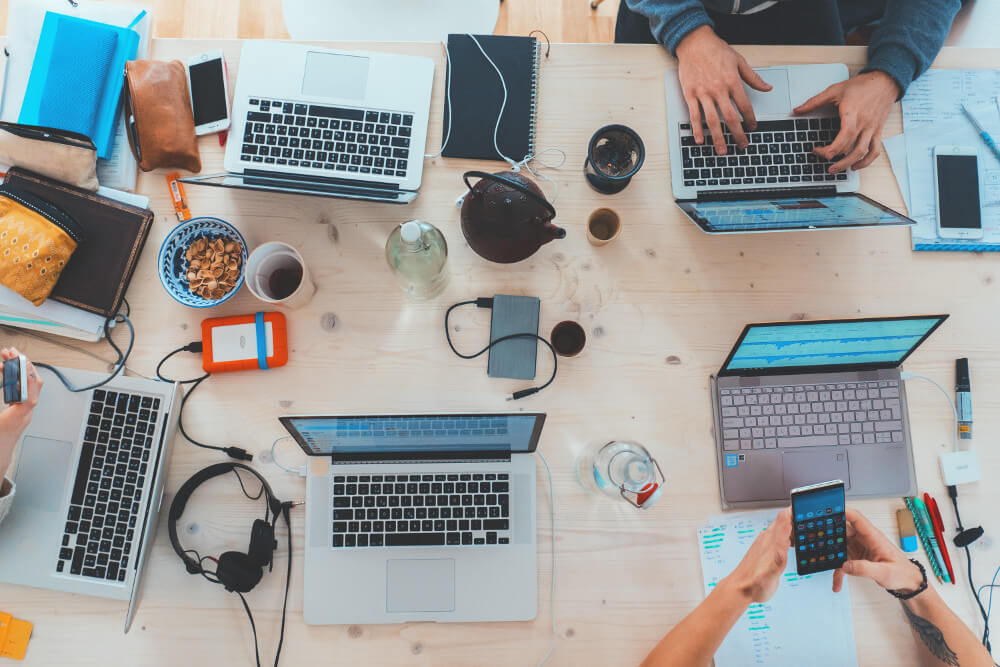
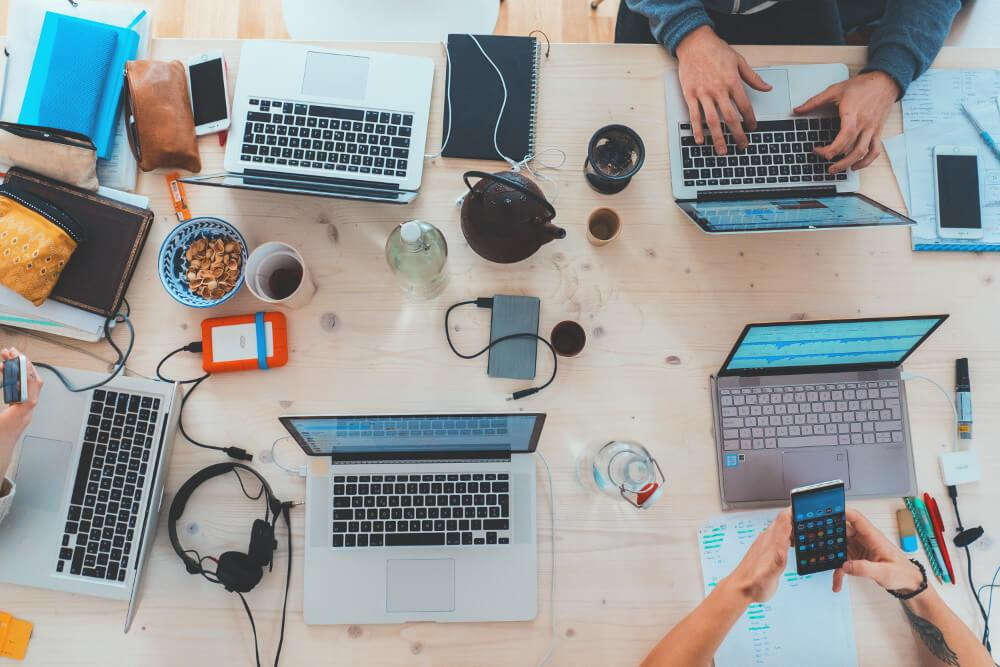
Add optimized image.

diff --git a/public/index.html b/public/index.html
@@ -1,4 +1,4 @@
-<!DOCTYPE html><html><head><meta charset="utf-8"><meta http-equiv="X-UA-Compatible" content="IE=edge,chrome=1"><meta name="viewport" content="width=device-width"><link rel="apple-touch-icon" sizes="180x180" href="/apple-touch-icon.png"><link rel="icon" type="image/png" href="/favicon-32x32.png" sizes="32x32"><link rel="icon" type="image/png" href="/favicon-16x16.png" sizes="16x16"><link rel="manifest" href="/manifest.json"><link rel="mask-icon" href="/safari-pinned-tab.svg" color="#5bbad5"><meta name="theme-color" content="#ffffff"><meta name="og:url" content="http://eatingforproductivity.com"><meta name="og:title" content="Weekly Meal Plans Designed for High Energy Days - EatingForProductivity.com"><meta name="og:description" content="We're creating a service that sends you weekly meal plans designed for sustained energy throughout your day.  Turn sluggish afternoons into productive hours with laser focus!"><meta name="og:image" content="http://eatingforproductivity.com/assets/images/guy-working-on-computer-with-hand-on-head.jpg?v=180720"><meta name="og:type" content="article"><link rel="canonical" href="http://eatingforproductivity.com"><title>Weekly Meal Plans Designed for High Energy Days - EatingForProductivity.com</title><meta name="description" content="We're creating a service that sends you weekly meal plans designed for sustained energy throughout your day.  Turn sluggish afternoons into productive hours with laser focus!"><link href="https://fonts.googleapis.com/css?family=Lato:400,700,900|Roboto:300,400,700|Handlee" rel="stylesheet"><link rel="stylesheet" href="/assets/css/application.css?v=180720"><script src="https://www.google.com/recaptcha/api.js"></script><script>!function(f,b,e,v,n,t,s){if(f.fbq)return;n=f.fbq=function(){n.callMethod?
+<!DOCTYPE html><html><head><meta charset="utf-8"><meta http-equiv="X-UA-Compatible" content="IE=edge,chrome=1"><meta name="viewport" content="width=device-width"><link rel="apple-touch-icon" sizes="180x180" href="/apple-touch-icon.png"><link rel="icon" type="image/png" href="/favicon-32x32.png" sizes="32x32"><link rel="icon" type="image/png" href="/favicon-16x16.png" sizes="16x16"><link rel="manifest" href="/manifest.json"><link rel="mask-icon" href="/safari-pinned-tab.svg" color="#5bbad5"><meta name="theme-color" content="#ffffff"><meta name="og:url" content="http://eatingforproductivity.com"><meta name="og:title" content="Weekly Meal Plans Designed for High Energy Days - EatingForProductivity.com"><meta name="og:description" content="We're creating a service that sends you weekly meal plans designed for sustained energy throughout your day.  Turn sluggish afternoons into productive hours with laser focus!"><meta name="og:image" content="http://eatingforproductivity.com/assets/images/guy-working-on-computer-with-hand-on-head.jpg?v=180721"><meta name="og:type" content="article"><link rel="canonical" href="http://eatingforproductivity.com"><title>Weekly Meal Plans Designed for High Energy Days - EatingForProductivity.com</title><meta name="description" content="We're creating a service that sends you weekly meal plans designed for sustained energy throughout your day.  Turn sluggish afternoons into productive hours with laser focus!"><link href="https://fonts.googleapis.com/css?family=Lato:400,700,900|Roboto:300,400,700|Handlee" rel="stylesheet"><link rel="stylesheet" href="/assets/css/application.css?v=180720"><script src="https://www.google.com/recaptcha/api.js"></script><script>!function(f,b,e,v,n,t,s){if(f.fbq)return;n=f.fbq=function(){n.callMethod?
 n.callMethod.apply(n,arguments):n.queue.push(arguments)};if(!f._fbq)f._fbq=n;
 n.push=n;n.loaded=!0;n.version='2.0';n.queue=[];t=b.createElement(e);t.async=!0;
 t.src=v;s=b.getElementsByTagName(e)[0];s.parentNode.insertBefore(t,s)}(window,
@@ -9,6 +9,6 @@ fbq('track', 'PageView');
 function gtag(){dataLayer.push(arguments);}
 gtag('js', new Date());
 
-gtag('config', 'UA-106177020-2');</script></head><body class="no-header" id="landing-page"><main><div class="section red micro"><div class="small-container"><div class="full"><div class="header"><img class="circle outline inline-block" src="/assets/images/logo.png?v=180720" alt="Eating for Productivity. High energy meal plans sent to you weekly without you having to think about."><h2 class="text-center bold inline-block">Eating for Productivity</h2></div></div></div></div><div class="section small"><div class="small-container"><div class="full"><h1 class="text-center">Weekly Meal Plans for Professionals Who Want High Energy Days</h1><p class="italic">Do you ever get a rush of sleepiness just after eating lunch around 3-4pm that makes it close to impossible to stay awake even while you sit at your desk working?</p><img src="/assets/images/guy-working-on-computer-with-hand-on-head.jpg?v=180720"><p>For me, this was most days. Even after fixing my sleep schedule to get a solid 8 hours a night at consistent sleep and wake times, I still found myself getting tired and losing focus after lunch.</p><p>After doing some research, I noticed what you eat matters as much as when you eat it.</p><h3>I Needed to Find an Expert</h3><p>I can't claim to be an expert on nutrition so I went looking for one.  I found a nutritionist who creates weekly meal plans focused around holistic eating and I asked her if she could help me.</p><p>She sent me my plan for a weeks worth of meals and snacks, along with a grocery list.  Not only was everything delicious, but after a few days, I no longer had trouble staying focused in the afternoon.</p><p class="bold">This was a game changer!</p><img src="/assets/images/people-working-at-a-single-desk.jpg?v=180720"><p>Now I have high energy throughout my day, eat a well balanced diet that is delicious, and have no trouble maintaining a healthy weight.</p><p><span class="bold">Best of all, I don't have to think about my food for the week at all!&nbsp;</span>My meals and snacks are set for the week and I receive a simple list for grocery shopping.</p><h3>Eat for Productivity Without Thinking About It!</h3><p>I am continuing my meal plan and am working with her to create a reasonably priced service that sends you weekly meal plans designed for sustained energy throughout your day.  We're thinking just a few dollars a month.</p><p>You may think these meal plans won't be customized enough for your lifestyle and if you have dietary restrictions then you would be right!</p><p>But as far personalization on the meal plans I received, there is nothing particularly unique to my life besides the desire to have high energy days with laser focus.&nbsp;<span class="bold">These meal plans will boost your energy assuming you don't have dietary restrictions.</span></p><img src="/assets/images/punch-today-in-the-face.jpg?v=180720"><h3>Punch Today In the Face.</h3><p>If you catch yourself falling asleep around 3pm and instead want the energy to power through your afternoon, this service will set you up for success&nbsp;<span class="bold">without you having to even think about it.</span></p><p>Enter your email below to receive updates and get notified when we launch :)</p></div></div></div><div class="section red small"><div class="content-upgrade signup-form"><h3 class="bold text-center">Get notified when we launch!</h3><p>We'll let you know when we launch so you can make every day as productive as possible without having to think about the food you eat!</p><form class="ui form" id="email-form" action="https://shaneburkhart.us15.list-manage.com/subscribe/post" method="post"><input type="hidden" name="u" value="8c6e4ce8404562ca882805491"><input type="hidden" name="id" value="25321ca51c"><div class="field"><label for="MERGE1">First Name</label><input type="text" name="MERGE1" id="MERGE1" size="25" value=""></div><div class="field"><label for="MERGE0">Email</label><input type="email" autocapitalize="off" autocorrect="off" name="MERGE0" id="MERGE0" size="25" value=""></div><div class="text-center"><input class="ui button large blue g-recaptcha" name="commit" type="submit" value="Let's eat!" data-sitekey="6LcsSlsUAAAAAC07KUDKpdwqa42lig6dYuvPHAgN" data-callback="onSubmit"></div><script>function onSubmit(token) {
+gtag('config', 'UA-106177020-2');</script></head><body class="no-header" id="landing-page"><main><div class="section red micro"><div class="small-container"><div class="full"><div class="header"><img class="circle outline inline-block" src="/assets/images/logo.png?v=180721" alt="Eating for Productivity. High energy meal plans sent to you weekly without you having to think about."><h2 class="text-center bold inline-block">Eating for Productivity</h2></div></div></div></div><div class="section small"><div class="small-container"><div class="full"><h1 class="text-center">Weekly Meal Plans for Professionals Who Want High Energy Days</h1><p class="italic">Do you ever get a rush of sleepiness just after eating lunch around 3-4pm that makes it close to impossible to stay awake even while you sit at your desk working?</p><img src="/assets/images/guy-working-on-computer-with-hand-on-head.jpg?v=180721"><p>For me, this was most days. Even after fixing my sleep schedule to get a solid 8 hours a night at consistent sleep and wake times, I still found myself getting tired and losing focus after lunch.</p><p>After doing some research, I noticed what you eat matters as much as when you eat it.</p><h3>I Needed to Find an Expert</h3><p>I can't claim to be an expert on nutrition so I went looking for one.  I found a nutritionist who creates weekly meal plans focused around holistic eating and I asked her if she could help me.</p><p>She sent me my plan for a weeks worth of meals and snacks, along with a grocery list.  Not only was everything delicious, but after a few days, I no longer had trouble staying focused in the afternoon.</p><p class="bold">This was a game changer!</p><img src="/assets/images/people-working-at-a-single-desk.jpg?v=180721"><p>Now I have high energy throughout my day, eat a well balanced diet that is delicious, and have no trouble maintaining a healthy weight.</p><p><span class="bold">Best of all, I don't have to think about my food for the week at all!&nbsp;</span>My meals and snacks are set for the week and I receive a simple list for grocery shopping.</p><h3>Eat for Productivity Without Thinking About It!</h3><p>I am continuing my meal plan and am working with her to create a reasonably priced service that sends you weekly meal plans designed for sustained energy throughout your day.  We're thinking just a few dollars a month.</p><p>You may think these meal plans won't be customized enough for your lifestyle and if you have dietary restrictions then you would be right!</p><p>But as far personalization on the meal plans I received, there is nothing particularly unique to my life besides the desire to have high energy days with laser focus.&nbsp;<span class="bold">These meal plans will boost your energy assuming you don't have dietary restrictions.</span></p><img src="/assets/images/punch-today-in-the-face.jpg?v=180721"><h3>Punch Today In the Face.</h3><p>If you catch yourself falling asleep around 3pm and instead want the energy to power through your afternoon, this service will set you up for success&nbsp;<span class="bold">without you having to even think about it.</span></p><p>Enter your email below to receive updates and get notified when we launch :)</p></div></div></div><div class="section red small"><div class="content-upgrade signup-form"><h3 class="bold text-center">Get notified when we launch!</h3><p>We'll let you know when we launch so you can make every day as productive as possible without having to think about the food you eat!</p><form class="ui form" id="email-form" action="https://shaneburkhart.us15.list-manage.com/subscribe/post" method="post"><input type="hidden" name="u" value="8c6e4ce8404562ca882805491"><input type="hidden" name="id" value="25321ca51c"><div class="field"><label for="MERGE1">First Name</label><input type="text" name="MERGE1" id="MERGE1" size="25" value=""></div><div class="field"><label for="MERGE0">Email</label><input type="email" autocapitalize="off" autocorrect="off" name="MERGE0" id="MERGE0" size="25" value=""></div><div class="text-center"><input class="ui button large blue g-recaptcha" name="commit" type="submit" value="Let's eat!" data-sitekey="6LcsSlsUAAAAAC07KUDKpdwqa42lig6dYuvPHAgN" data-callback="onSubmit"></div><script>function onSubmit(token) {
     document.getElementById("email-form").submit();
 }</script></form></div></div></main></body></html>
